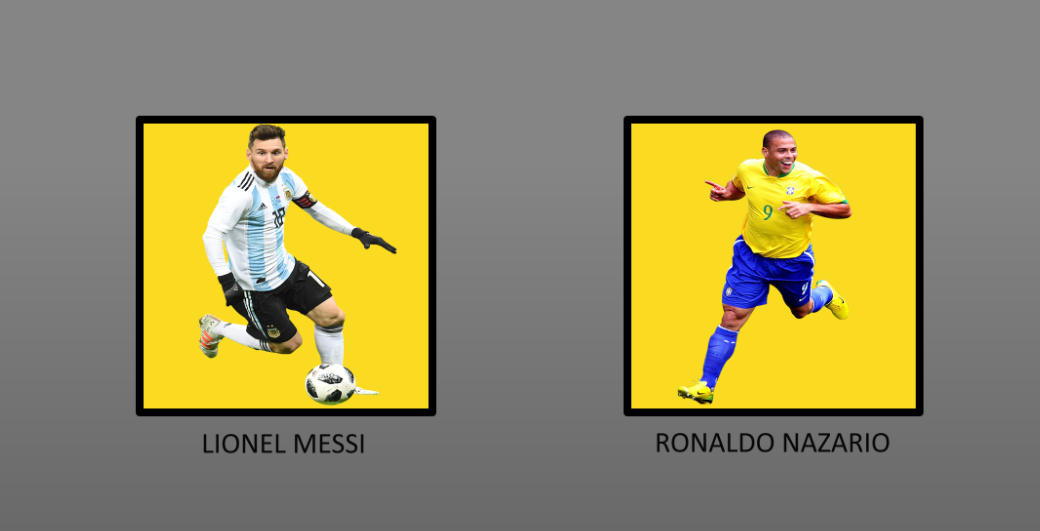
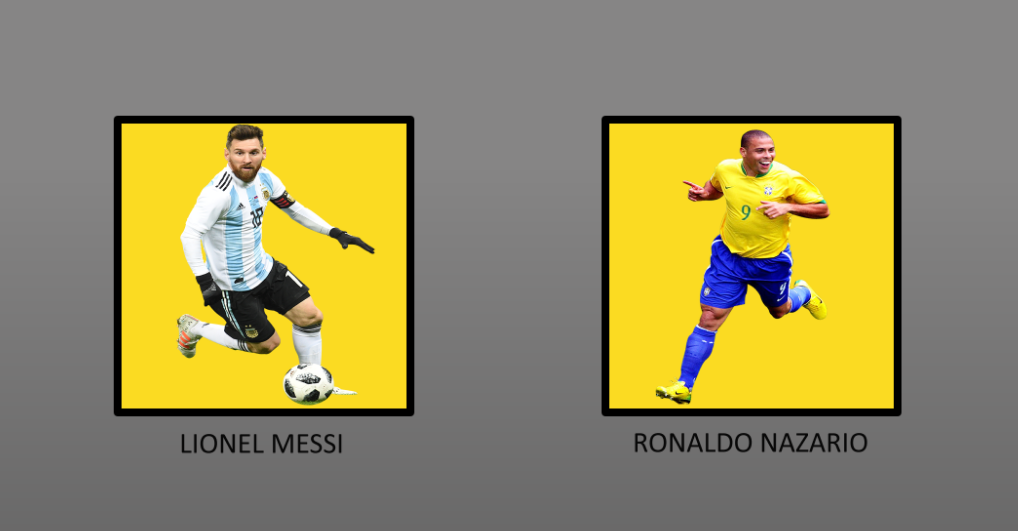
We fixed the size of the images of the other projects, and chose a smaller font size than before in the card information

diff --git a/components/proyectos/Proyectos.jsx b/components/proyectos/Proyectos.jsx
@@ -22,10 +22,10 @@ function Proyectos({item}) {
               
           />  
           <CardContent sx={{ '&:last-child': { pb: 3, pt: 3, backgroundColor: "#eae8df" }}}>
-            <Typography gutterBottom variant="h5" component="div">
+            <Typography gutterBottom variant="h6" component="div">
                 {item.tittle}
               </Typography>
-              <Typography variant="body1" color="text.secondary">
+              <Typography variant="body2" color="text.secondary">
                 {item.description}
               </Typography>
           </CardContent>
